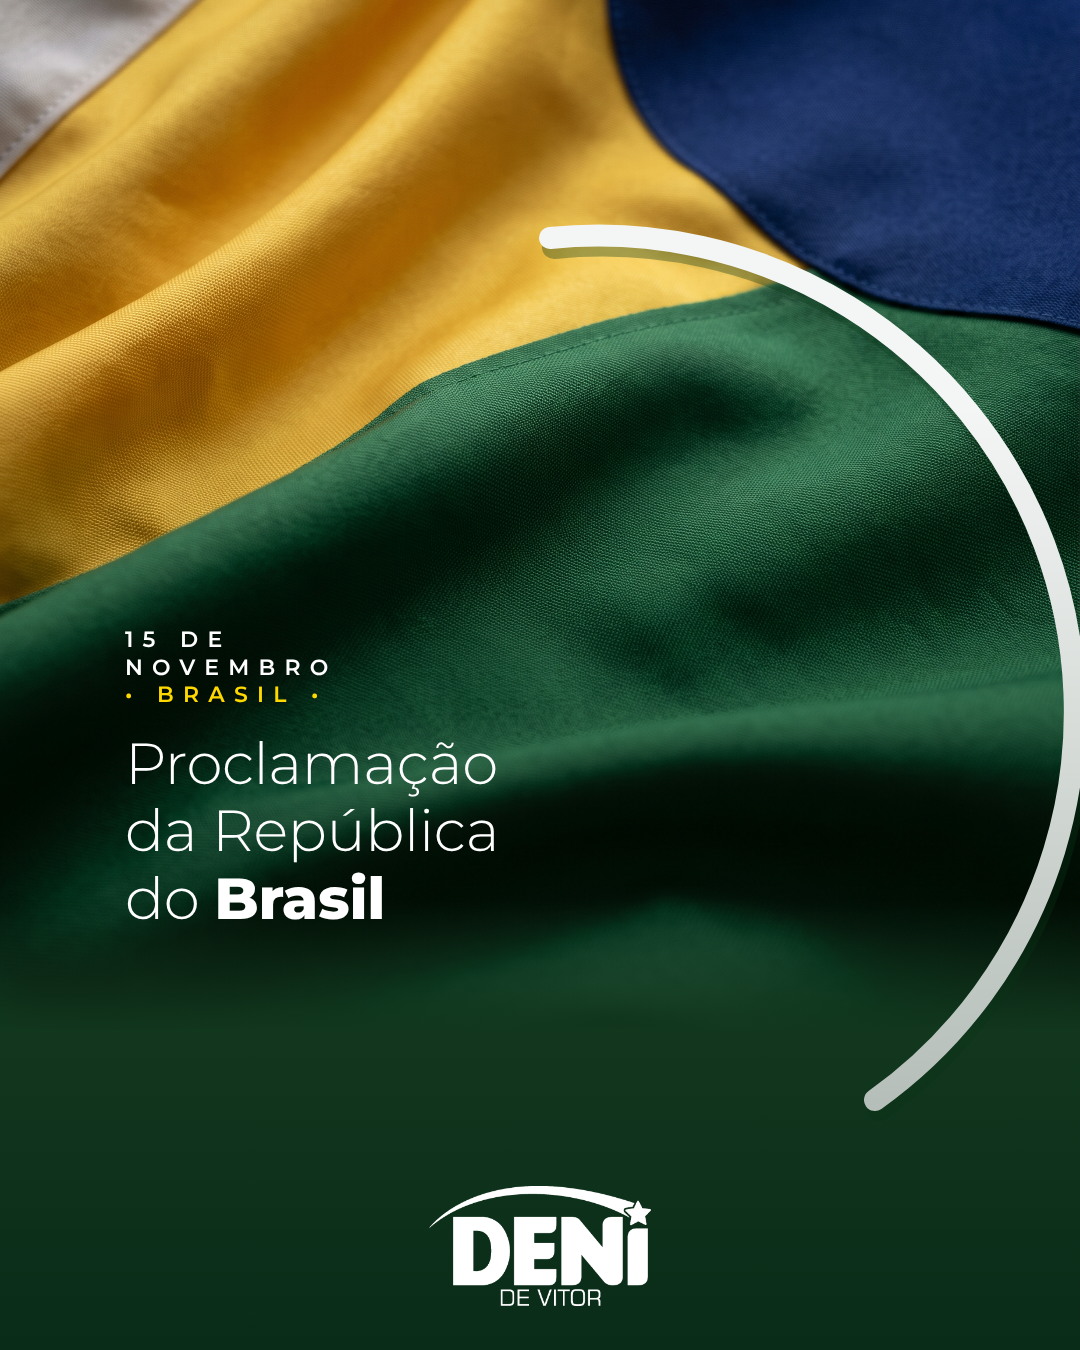
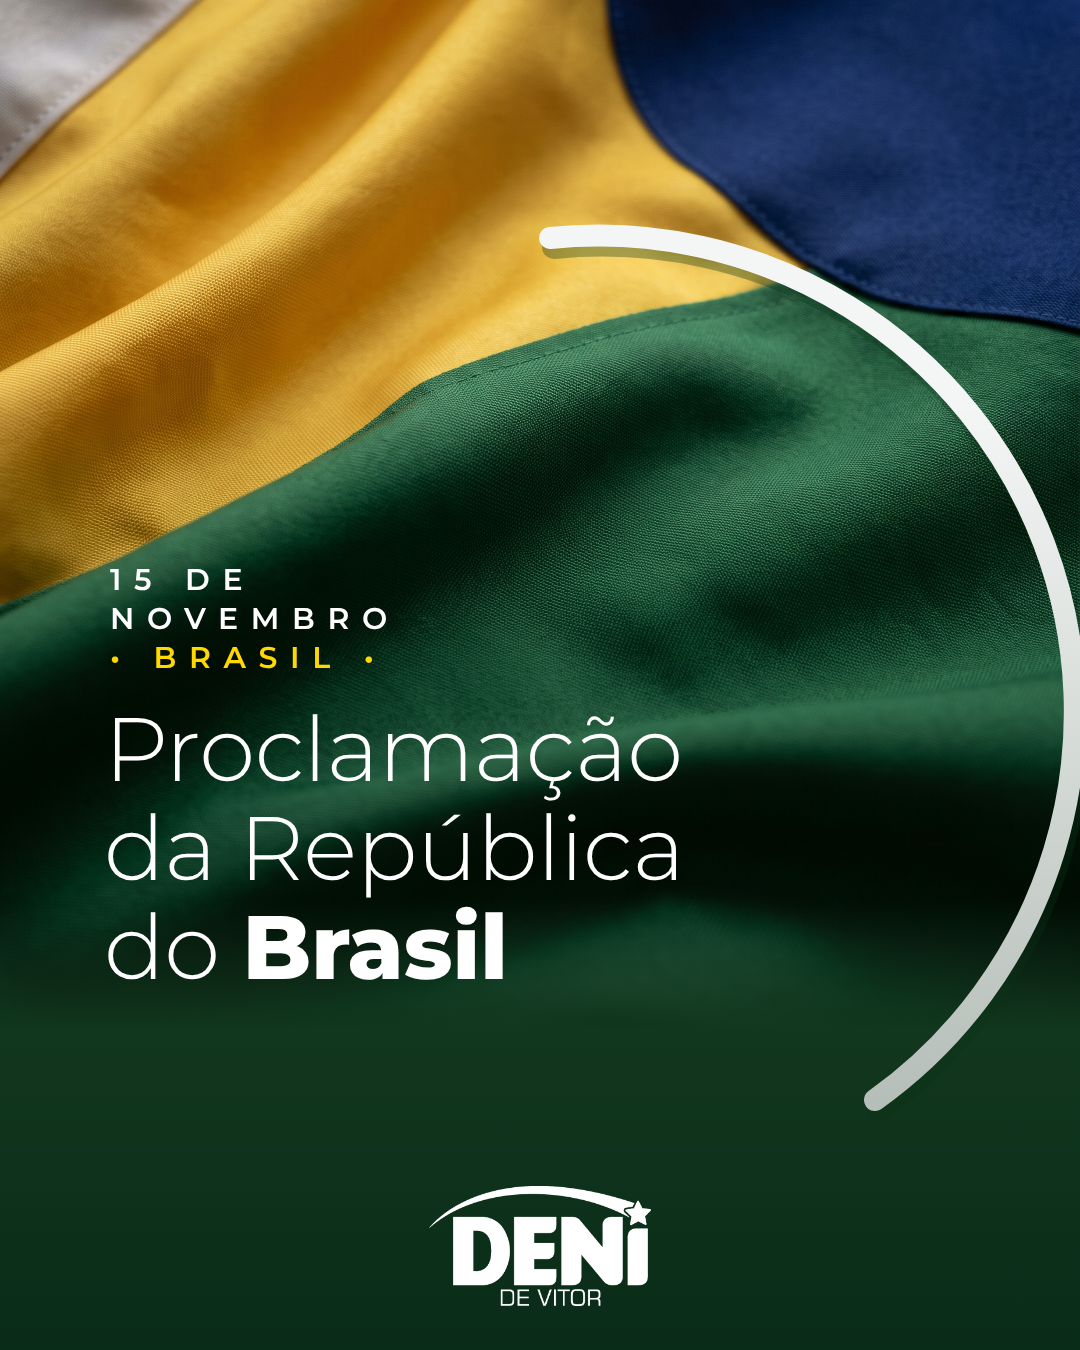
Deni 15/11 (sem mapa): texto maior e proporcional ao card
Claude-Session: https://claude.ai/code/session_01RAcsiAg3fWWxJmAb45HbDL

Changed region(s): [[0.0917, 0.4044, 0.6417, 0.7467]]

diff --git a/clientes/deni-de-vitor/entregas/2026-11-15-proclamacao-republica/card-sem-mapa.html b/clientes/deni-de-vitor/entregas/2026-11-15-proclamacao-republica/card-sem-mapa.html
@@ -11,9 +11,9 @@ body{width:1080px;height:1350px;overflow:hidden;position:relative;font-family:Mo
 .arco2{position:absolute;left:363px;top:88px;width:824px;height:824px;border-radius:50%;border:22px solid transparent;border-bottom-color:#F4F6F5;transform:rotate(-38deg);
   filter:drop-shadow(0 8px 10px rgba(0,30,10,.35))}
 .mapa{position:absolute;left:262px;top:226px;width:860px;filter:drop-shadow(0 30px 30px rgba(0,25,10,.45))}
-.data{position:absolute;left:125px;top:626px;font:600 22px/1.25 Montserrat;letter-spacing:.42em;color:#fff}
+.data{position:absolute;left:110px;top:560px;font:600 30px/1.3 Montserrat;letter-spacing:.42em;color:#fff}
 .data span{color:#FFD800}
-h1{position:absolute;left:125px;top:730px;font:300 58px/1.16 Montserrat;letter-spacing:-.005em}
+h1{position:absolute;left:104px;top:700px;font:300 90px/1.1 Montserrat;letter-spacing:-.005em}
 h1 b{font-weight:800}
 footer{position:absolute;left:0;right:0;top:1196px;display:flex;justify-content:center}
 footer img{height:120px;margin-top:-10px}
